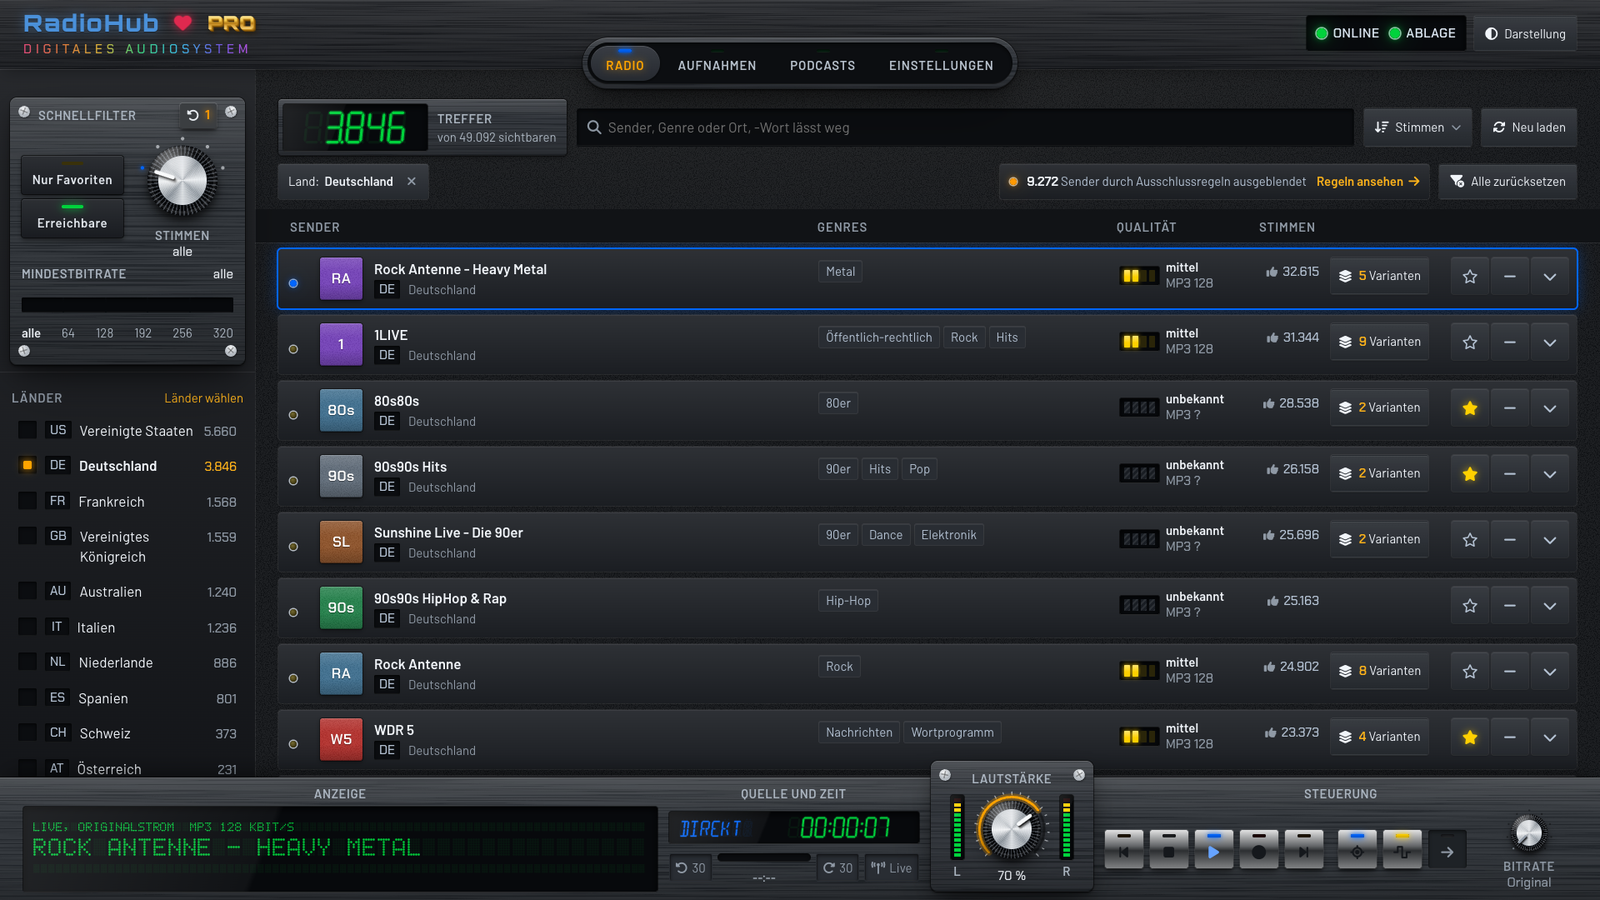
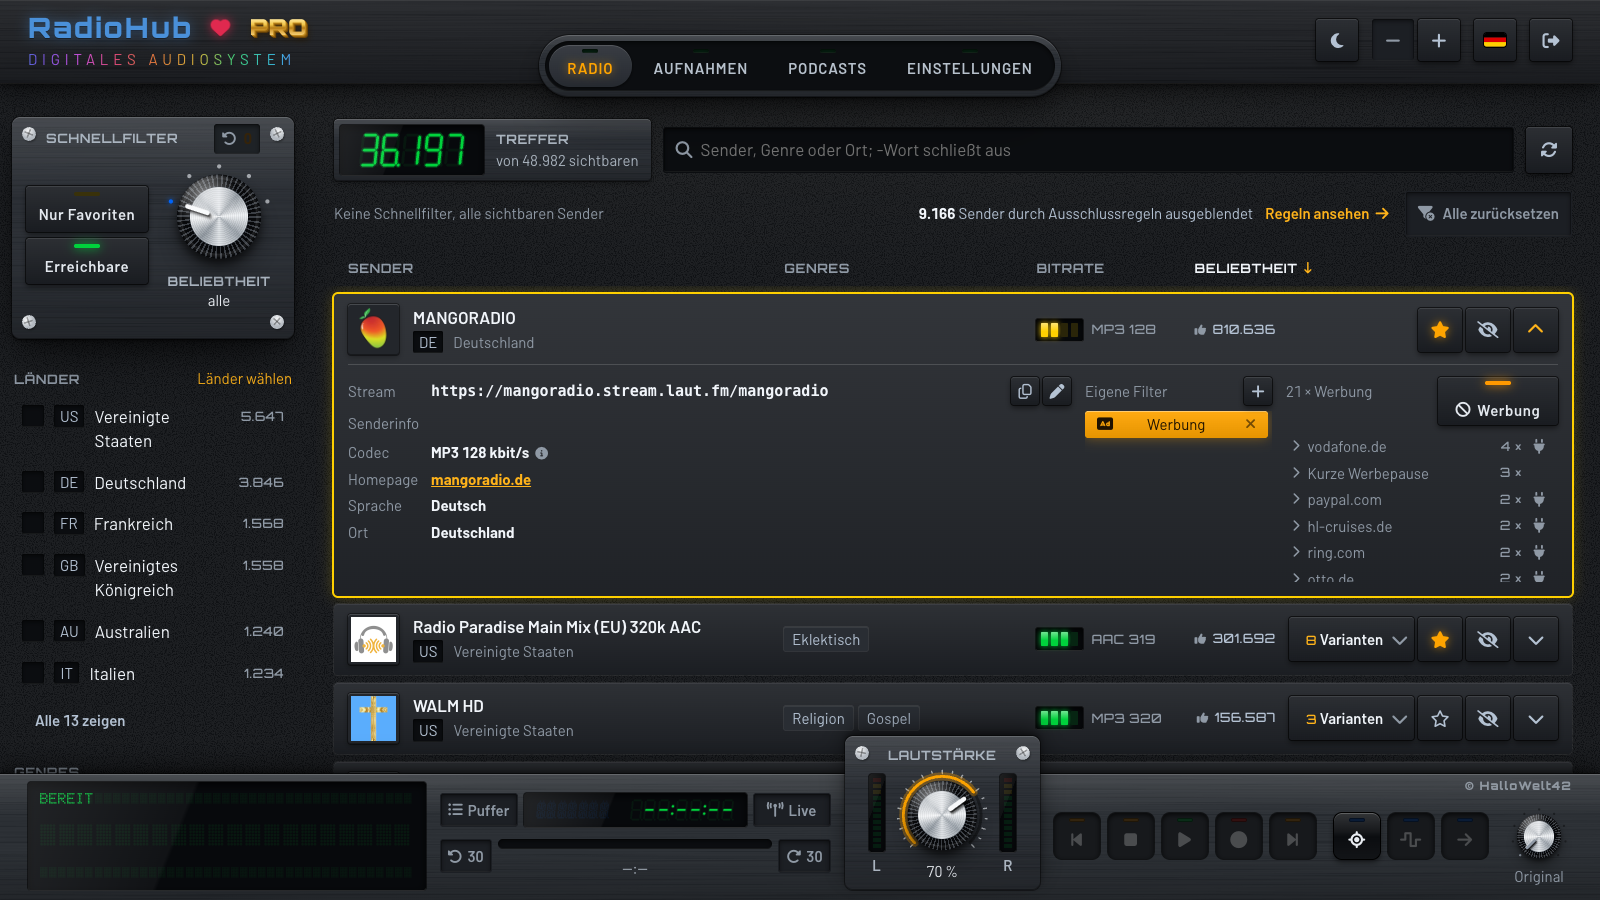
RAD-75: Neue Bildschirmfotos im README (PRO und Basic, hell und dunkel, Telefon), Ausblenden mit dem Auge

diff --git a/README.md b/README.md
@@ -12,7 +12,7 @@ Internetradio, Podcasts und Aufnahmen in der Optik einer HiFi-Anlage, in zwei Au
 ## Funktionen
 
 - **Radio:** über 50.000 Sender, nachts abgeglichen; Sprachen, Genres, Qualität und Dubletten aufbereitet
-- **Filtern:** Schnellfilter in der Seitenleiste, Suche mit Minus (`jazz -werbung`), Minus an jedem Sender
+- **Filtern:** Schnellfilter in der Seitenleiste, Suche mit Minus (`jazz -werbung`), Ausblenden mit dem Auge an jedem Sender
 - **Ausschlussregeln:** wirken auch auf neue Sender; erst Vorschau, dann anlegen
 - **Abspielleiste:** Punktmatrix, Zeitversatz, Lautstärke, Steuerung in einer Tastenreihe
 - **Aufnahmen und Podcasts:** mitschneiden und schneiden, Abos mit Folgen
